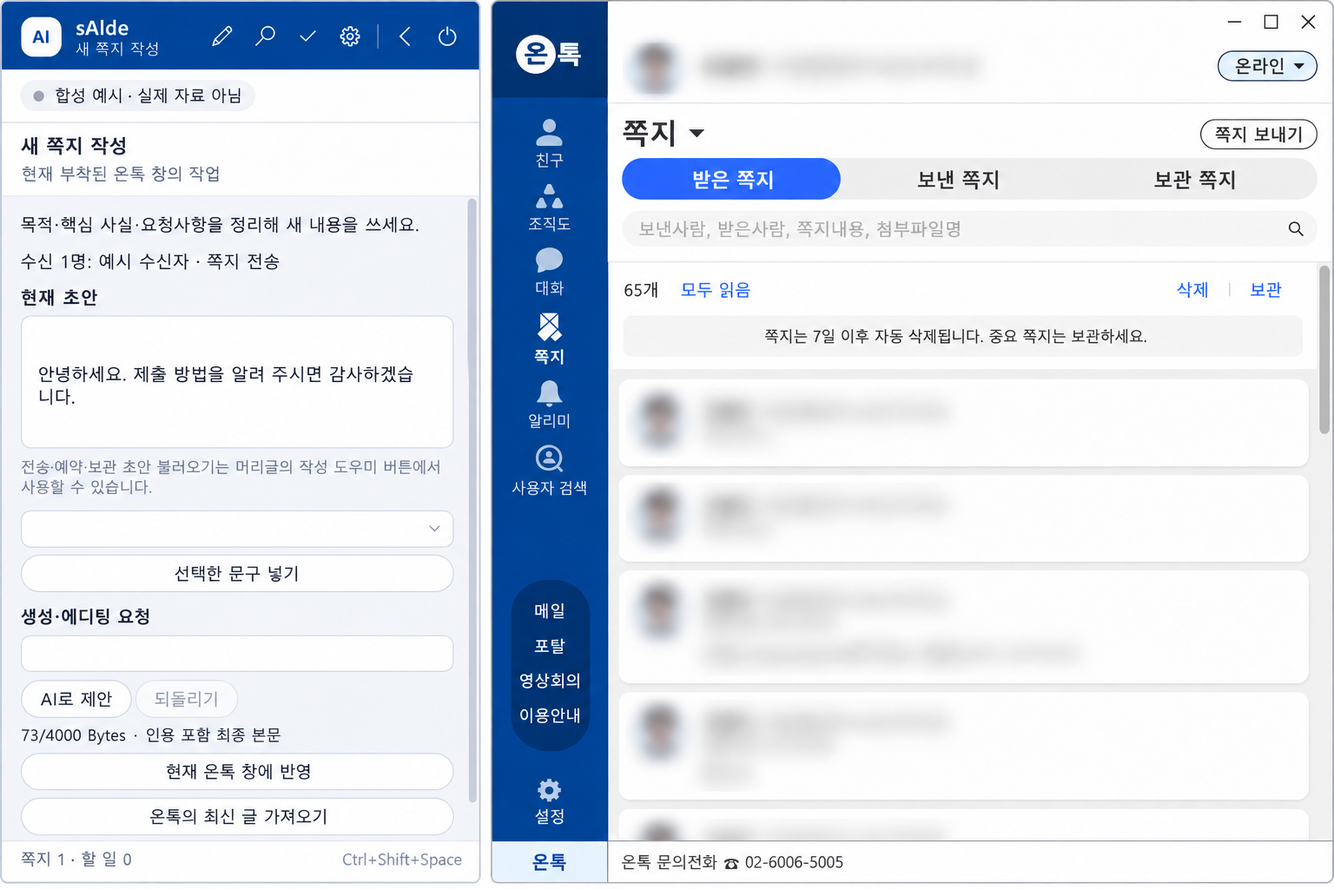
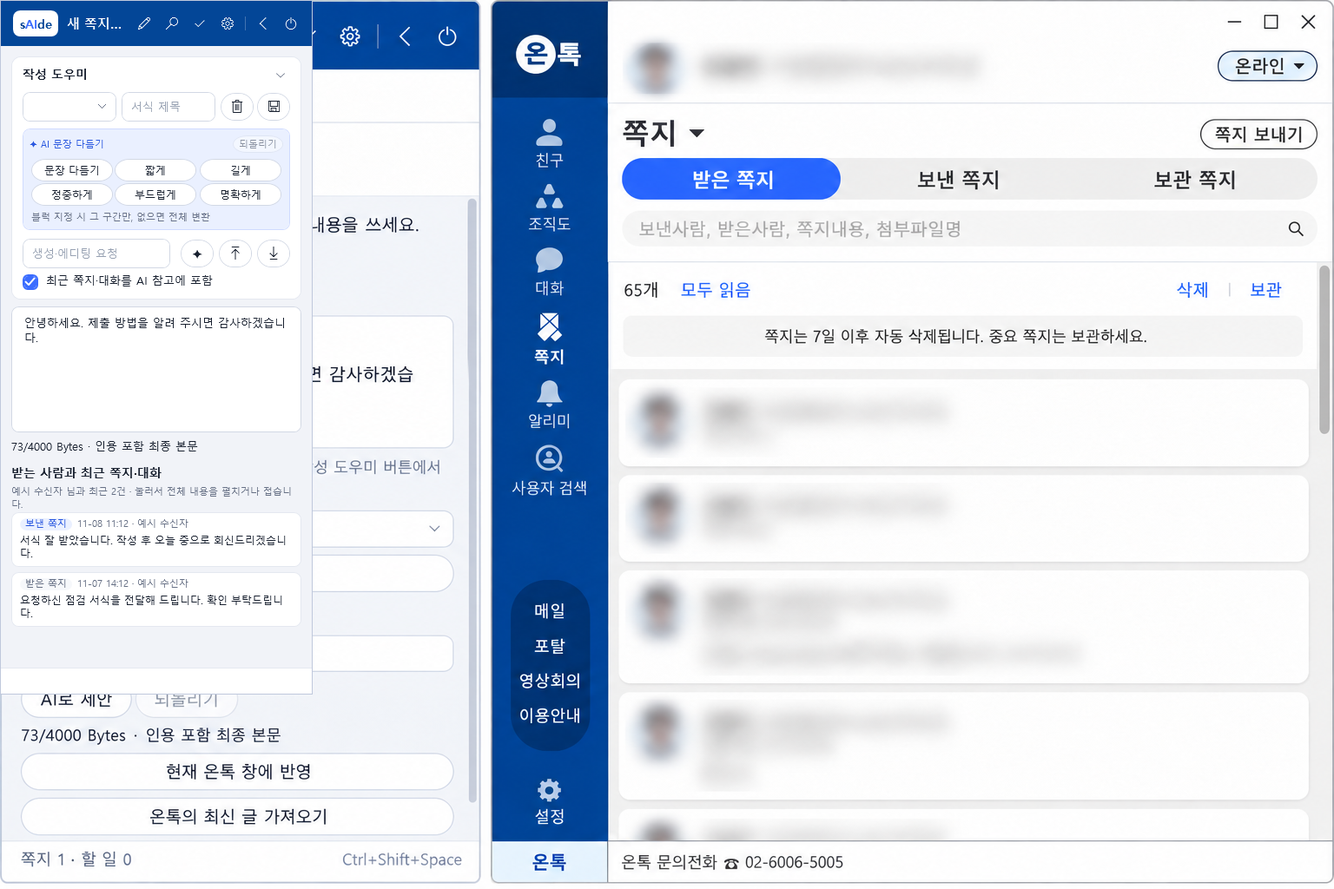
s

diff --git a/tools/OnTalk.ContextPreview/Program.cs b/tools/OnTalk.ContextPreview/Program.cs
@@ -35,6 +35,10 @@ internal static class Program
         if (Directory.Exists(profileDir)) Directory.Delete(profileDir, true);
         using var store = ProfileStore.Open(profileDir, "preview");
         store.SaveGroup("예시 업무 그룹", [new Recipient("예시 담당자", "주무관", ["예시기관 총무팀"]) ]);
+        store.SaveTemplate("업무 협조 요청", "안녕하세요. 아래 업무 관련하여 협조 요청드립니다.\n\n- 요청 사항: \n- 회신 기한: \n\n감사합니다.");
+        store.SaveReceived(new ReceivedNote("예시 수신자", "총무팀", "어제 오후 03:20", null, 1, "요청하신 점검 서식을 전달해 드립니다. 확인 부탁드립니다.", []), DateTimeOffset.Now.AddDays(-1));
+        var prevSent = store.BeginDispatch(["예시 수신자"], "서식 잘 받았습니다. 작성 후 오늘 중으로 회신드리겠습니다.", null, DateTimeOffset.Now.AddHours(-3));
+        store.FinishDispatch(prevSent, DispatchStatus.WindowClosed, "");
         var panel = new PanelWindow();
         Set(panel, "_store", store);
         var session = Guid.NewGuid(); var hwnd = new IntPtr(123);
@@ -189,6 +193,7 @@ internal static class Program
             new HotkeyRegistration(() => IntPtr.Zero, new AppSettings()));
         if (((TextBox)Get(manage, "HotkeyBox")).Text != "Ctrl+Shift+Space (사용 중이 아님)") throw new InvalidOperationException("관리 창 단축키 표시 오류");
         Render((FrameworkElement)manage.Content, Path.Combine(output, "manage-hotkey.png"), 600, 1000);
+        ((TextBox)Get(host.Note!, "_editor")).Text = "안녕하세요. 10월 정기 점검 일정을 안내드립니다.\n\n- 일시: 10월 22일(수) 14:00\n- 장소: 3층 회의실\n\n참석 여부를 회신해 주세요.";
         Render(hostTabs, Path.Combine(output, "note-host-note.png"), clientWidth, clientHeight);
         Render(hostTabs, Path.Combine(output, "note-host-note-min.png"), 648, 456);
         hostTabs.SelectedIndex = 1;

diff --git a/README.md b/README.md
@@ -1,4 +1,4 @@
-# onTalk.sAIde 사용자 매뉴얼
+# onTalk.sAIde 사용자 매뉴얼
 
 온톡에서 지금 하는 일에 맞춰 옆 패널이 바뀌는 Windows 업무 도우미입니다. Home(친구)에서는 친구·그룹별 업무 소통을 한눈에 보고, 조직도에서는 선택한 직원에게 쪽지를 보내며, 쪽지를 읽을 때는 내용과 할 일을 정리합니다. 쪽지 작성과 대화 답변에는 초안 편집과 로컬 AI 제안을 제공합니다.
 
@@ -100,10 +100,10 @@ ZIP의 **전체 압축을 풀고** 안의 `OnTalk.sAIde.exe`를 실행합니다.
 2. 보내지 않을 사람은 **제외(X 아이콘)** 단추로 제외합니다. 추가할 사람이 있거나 온톡이 선택 상태를 알려 주지 않으면 우측 상단 **직원 추가(+)** 단추를 눌러 읽은 직원 중에서 직접 검색하고 선택합니다.
 3. **쪽지** 단추를 누르면 `쪽지 보내기` 창이 열리고, 선택한 직원이 `쪽지`와 `개인별 쪽지` 두 탭에 똑같이 들어갑니다. 먼저 `쪽지` 탭에서 같은 내용을 보냅니다. ① 받는 사람을 확인(✕로 빼기)하고 ② 본문을 쓰거나 저장된 서식을 불러온 뒤 ③ 보낼 **첨부 파일**을 **파일 추가…**로 고르거나 끌어다 놓고(파일당 최대 20MB·최대 10개, exe 제외) ④ 필요하면 예약 시각과 **SMS 발송**을 고릅니다. 새 쪽지·답장·선택 직원 쪽지가 모두 같은 창을 씁니다. **자동 발송**은 빈 새 쪽지 창을 자동으로 열어 모든 대상을 받는 사람에 넣고, 첨부 파일은 온톡의 파일 선택창으로 직접 붙이며 파일마다 온톡 첨부 목록에 늘었는지 확인합니다. SMS는 온톡의 ‘SMS 발송’ 확인란을 선택하고, 본문·첨부·SMS·예약을 검증한 뒤 확인 창에서 승인하면 한 통으로 보냅니다. **온톡 쪽지창에 준비**는 채우기만 하고 전송은 온톡 창에서 직접 합니다. 한 사람이라도 이름·직급·소속으로 확정하지 못하면 일부에게만 보내지 않고 멈춥니다. 본문은 자동 저장되지 않으며, 창 아래 왼쪽 **임시저장**을 눌러야 저장되고 **임시저장 삭제**로 바로 지울 수 있습니다.
 
-![선택 직원에게 쪽지 합성 예시](docs/images/group-note.png)
+![선택 직원에게 쪽지 합성 예시](docs/images/note-host-note.png)
 4. 사람마다 내용이 다르면 같은 창의 **개인별 쪽지** 탭으로 옮깁니다(발송·준비가 진행되는 동안에는 탭을 바꿀 수 없습니다). **입력 양식 CSV 내보내기**로 받은 파일에 원하는 헤더(열)를 자유롭게 추가하고 사람별 데이터를 채운 뒤 **CSV · TSV · XLSX 데이터 가져오기**로 불러오면, `{이름}`, `{소속}`, `{직급}`과 함께 추가한 `{헤더명}` 변수를 서식에 그대로 적용해 개인별 본문을 생성·미리보기·수정합니다. 이름·소속·직급이 일치하지 않으면 가져오지 않으며, 개인별 발송은 한 건씩 수신자·본문·예약을 확인하며 진행합니다.
 
-![개인별 쪽지 작성과 미리보기 합성 예시](docs/images/personalized-notes.png)
+![개인별 쪽지 작성과 미리보기 합성 예시](docs/images/note-host-personalized.png)
 
 접힌 부서의 직원·읽히지 않은 직원은 대상에 없습니다. 동명이인은 이름·직급·소속을 함께 비교합니다. 자세한 순서는 [조직도 쪽지 안내](docs/organization-personalized-notes.md)를 참고하세요.
 
@@ -160,7 +160,7 @@ AI가 없으면 원문에서 할 일로 보이는 문장을 그대로 추린 후
 
 ![메인 화면과 새 쪽지 작성 지원 합성 예시](docs/images/note-writing.png)
 
-메인 화면과 **새 쪽지 작성창용 패널 합성 예시**입니다. 실제 사용에서는 해당 작성창 옆에 붙습니다.
+메인 화면과 **새 쪽지 작성창용 패널 합성 예시**입니다. 실제 사용에서는 온톡에서 연 해당 작성창 옆에 붙습니다. 메뉴를 옮겨도 작성 중인 초안은 유지됩니다.
 
 | 종류 | 준비할 내용 |
 |---|---|
@@ -169,12 +169,21 @@ AI가 없으면 원문에서 할 일로 보이는 문장을 그대로 추린 후
 | 전체답장 | 모두에게 필요한 응답과 실제 전체 수신자 확인 |
 | 전달 | 전달 이유·다음 행동·원문·첨부 포함 여부 |
 
-1. 온톡에서 작성창을 열고 패널의 작성 종류를 확인합니다.
-2. 직접 쓰거나 문구를 골라 **선택한 문구 넣기**를 누릅니다.
-3. 요청을 적고 **AI로 제안**을 누릅니다. 제안은 편집기를 바로 덮어쓰지 않습니다.
-4. 비교 후 **제안을 초안에 적용**하고 필요하면 **되돌리기**를 누릅니다.
-5. 인용 포함 여부·바이트 표시를 보고 **현재 온톡 창에 반영**합니다.
-6. 온톡의 글이 바뀌어 충돌하면 최신 본문을 확인합니다. **온톡의 최신 글 가져오기**로 다시 시작할 수 있습니다.
+1. 온톡에서 작성창을 열면 해당 작성창에 맞춤 부착된 패널이 표시됩니다. 작성창 세션·종류(새 쪽지, 답장, 전체답장, 전달)별로 초안을 분리 보관하며, 온톡 창이 열려 있는 동안 주기적으로 자동 저장됩니다.
+2. **저장된 서식 관리**: 상단 **작성 도우미**에서 저장된 서식을 선택해 즉시 불러올 수 있으며, 서식 제목을 적고 **서식 저장()** 단추를 누르면 현재 초안을 새 서식으로 저장합니다. 필요 없어진 서식은 **서식 삭제()**로 지웁니다.
+3. **✦ AI 문장 다듬기**:
+   - 6가지 원클릭 프리셋 단추를 제공합니다: **문장 다듬기**(맞춤법·자연스러운 표현), **짧게**(군더더기 축약), **길게**(배경·안내 보완), **정중하게**(공공기관 격식 경어체), **부드럽게**(완곡한 어조), **명확하게**(핵심 용건 정리).
+   - **블럭 구간 또는 전체 변환**: 본문에서 특정 문장이나 단락을 마우스/키보드로 블럭 지정하면 해당 구간만 다듬고, 선택이 없으면 전체 본문을 다듬습니다. 원문의 줄 바꿈과 빈 줄(문단 구분) 구조를 그대로 유지합니다.
+   - 변환 결과가 마음에 들지 않으면 즉시 **되돌리기** 단추를 눌러 직전 본문으로 복원할 수 있습니다.
+4. **생성·에디팅 요청 및 빠른 액션 단추**:
+   - 요청 입력칸에 구체적인 요청(예: *제출 기한 연장 문의*, *점검 일정 안내*)을 적고 **✦ (AI로 제안)** 단추를 누르면, AI가 요청에 맞는 본문을 만들어 초안 칸에 바로 넣습니다(되돌리기로 복원 가능).
+   - ** (현재 온톡 창에 반영)**: 작성한 초안을 온톡 쪽지창 본문으로 즉시 입력합니다(전송 단추는 누르지 않음).
+   - ** (온톡의 최신 글 가져오기)**: 온톡 쪽지창에 적힌 본문을 초안 칸으로 가져옵니다.
+5. **받는 사람과 최근 쪽지·대화 3건**:
+   - 쪽지의 수신자가 확정되면 해당 직원과 이 PC에 로컬 보관된 이전 쪽지(받은 쪽지, 보낸 쪽지) 및 Home에 연결된 대화 정리 내역 중 최신 3건을 카드로 표시합니다.
+   - 각 카드는 [받음]/[보냄]/[대화] 구분 배지, 일시, 상대 이름, 내용 미리보기를 담고 있으며, 카드를 클릭하면 본문 전체를 펼치거나 접을 수 있습니다.
+   - 보관된 최근 내역이 있으면 **"최근 쪽지·대화를 AI 참고에 포함"** 확인란이 나타나며, 체크 시 AI 제안 생성 시 이전 소통 맥락과 어조를 참고하여 작성합니다.
+6. 원문 인용 포함 여부(`원문 인용 포함 (N Bytes)`)와 실시간 바이트 계산(`N / 4,000 Bytes`)을 확인한 뒤 ** (온톡 창에 반영)** 단추로 온톡 본문에 넣고, 최종 내용을 확인한 후 온톡에서 직접 전송합니다.
 
 **반영은 전송이 아닙니다.** 온톡 본문·바이트를 다시 읽어 확인합니다. 미완성 `{확인할 내용}`은 먼저 고치세요. 종류·창 세션별로 초안을 나누고 바뀐 작업에는 오래된 AI 제안을 적용하지 않습니다.
 
@@ -254,7 +263,7 @@ AI 요청은 `127.0.0.1:11434`로 제한하며 클라우드 모델로 원문을 
 
 ## 개발과 문서 안내
 
-최신 결과는 **테스트 330개 통과·합성 WPF 화면 77개·Release 오류·경고 0개**입니다. Home은 그룹·친구 필터, 대화 정리 연결, 360px 폭·낮은 높이·125/150% 렌더링으로 검증했습니다. 기존 실제 감시→파서 경로에서 친구·조직도·대화 목록·일대일/그룹 대화·로그인 전환·쪽지 메뉴를 확인했습니다. 새 Home과 조직도 개인별 발송의 실제 사용 수용 시험은 별도로 남아 있습니다.
+최신 결과는 **테스트 403개 통과·합성 WPF 화면 88개·Release 오류·경고 0개**입니다. Home은 그룹·친구 필터, 대화 정리 연결, 360px 폭·낮은 높이·125/150% 렌더링으로 검증했습니다. 기존 실제 감시→파서 경로에서 친구·조직도·대화 목록·일대일/그룹 대화·로그인 전환·쪽지 메뉴를 확인했습니다. 새 Home과 조직도 개인별 발송의 실제 사용 수용 시험은 별도로 남아 있습니다.
 
 ```powershell
 dotnet test tests/OnTalk.Sidecar.Tests -c Release

diff --git a/docs/manual-images.md b/docs/manual-images.md
@@ -1,10 +1,10 @@
 # 사용자 매뉴얼 이미지 제작 기록
 
-갱신: 2026-10-17. [사용자 매뉴얼](../README.md)의 이미지 출처와 개인정보 처리 기준이다.
+갱신: 2026-10-28. [사용자 매뉴얼](../README.md)의 이미지 출처와 개인정보 처리 기준이다.
 
 ## 새 Home 화면
 
-`images/home-dashboard.png`는 `OnTalk.ContextPreview`가 가상 친구·쪽지·대화로 렌더링한 실제 WPF 패널이다. 온톡 창·사용자 이력·첨부의 직원 정보를 사용하지 않았으며 상태 표시에도 가상 자료임을 명시했다. 상단 '체크한 친구와 함께(단체 대화/단체 쪽지)' 빠른 실행 및 3개 카드(최근 쪽지·최근 대화·최근 업무) 개편 화면을 반영했다. 이전 `friends-main.png`는 연락 준비 중심의 과거 Home 화면 기록으로 유지한다.
+`images/home-dashboard.png`는 `OnTalk.ContextPreview`가 가상 친구·쪽지·대화로 렌더링한 실제 WPF 패널이다. 온톡 창·사용자 이력·첨부의 직원 정보를 사용하지 않았으며 상태 표시에도 가상 자료임을 명시했다. 상단 '체크한 친구와 함께(단체 대화/단체 쪽지)' 빠른 실행 및 3개 카드(최근 쪽지·최근 대화·최근 업무)와 온톡 대화 목록에서 이름이 일치한 대화방(스키마 11 `HomeConversations`) 개편 화면을 반영했다. 이전 `friends-main.png`는 연락 준비 중심의 과거 Home 화면 기록으로 유지한다.
 
 ## 실제 메인 메뉴 화면
 
@@ -31,13 +31,16 @@
 | 파일 | 가상 자료 화면과 주의점 |
 |---|---|
 | images/note-reading.png | 받은 쪽지 읽기 지원. 실제는 별도 상세창에 부착 |
-| images/note-writing.png | 새 쪽지 작성 지원. 실제는 별도 작성창에 부착 |
+| images/note-writing.png | 새 쪽지 작성 지원. 서식 관리, 6개 프리셋 AI 문장 다듬기(블럭/전체 변환·되돌리기), 요청문 제안, 온톡 반영()/가져오기(), 수신자와 최근 오간 쪽지(수신/발신) 및 대화 3건 카드(펼침/접기) 및 AI 맥락 반영 확인란이 포함된 개편 화면 |
 | images/chat-support.png | 대화 원문 선택·답변 복사. 실제는 별도 대화창에 부착 |
-| images/group-note.png | 조직도 선택 직원에게 같은 쪽지 (받는 사람 칩·서식·본문·예약·자동 발송/준비) |
-| images/prepared-contact-compose.png | (이전) 조직도 선택 직원 대상 쪽지 작성 도우미. 현재는 `group-note.png` 창으로 바뀜 |
-| images/personalized-notes.png | 개인별 쪽지 작성과 미리보기 창 (서식·사용자정의 헤더/표·치환 미리보기·예약) |
-| images/personalized-notes-full.png | 개인별 쪽지 전체 작업 카드 (저장 작업·서식·데이터·본문 확인·발송 방식·연속 발송) |
+| images/note-host-note.png | 통합 쪽지 창의 ‘쪽지’ 탭 (조직도 선택 직원에게 같은 내용 발송, 받는 사람 칩·서식·첨부·예약·SMS·임시저장) |
+| images/note-host-personalized.png | 통합 쪽지 창의 ‘개인별 쪽지’ 탭 (서식·CSV/XLSX 대상 데이터·치환 미리보기·자동 연속 발송) |
+| images/group-note.png | 조직도 선택 직원에게 같은 쪽지 (GroupNotePane 화면, note-host-note와 동일한 촘촘한 배치 기준) |
+| images/prepared-contact-compose.png | (이전) 조직도 선택 직원 대상 쪽지 작성 도우미. 현재는 통합 쪽지 창(`note-host-note.png`)으로 바뀜 |
+| images/personalized-notes.png | 개인별 쪽지 작성과 미리보기 창 (600×600 Density 기준 화면) |
+| images/personalized-notes-full.png | 개인별 쪽지 전체 작업 카드 (600×1500 전체 구역 펼침 화면) |
 | images/personalized-saved-tags.png | 개인별 쪽지 저장한 작업의 상태 태그 (임시 저장·발송 완료·일부 발송) |
+| images/manage-hotkey.png | 관리(설정) 창의 단축키 설정 화면 (기본 Ctrl+Shift+Space, 실시간 키 조합 확인 및 충돌 방지) |
 
 실제 메인 화면과 합성 상세 패널을 함께 배치한 그림은 한 시점의 실제 부착 상태를 뜻하지 않는다. 미검증 대화 입력 반영 화면을 현재 제품 사용법의 예시로 넣지 않는다.
 

diff --git a/docs/compatibility-matrix.md b/docs/compatibility-matrix.md
@@ -1,4 +1,4 @@
-# 호환성과 기능별 지원 상태
+# 호환성과 기능별 지원 상태
 
 갱신: 2026-10-17. 기존 실제 확인은 온톡 5.4.3(Electron 7.3.3/Chromium 78), Windows 11 Pro, 배율 100% 기준이며 새 Home과 조직도 개인화 작업은 합성 WPF·자동 시험으로 검증했다. 현재 배포 버전은 0.3.3이다. [사용법](../README.md), [실제 확인 기록](contextual-sidecar-phase4.md), [조직도 쪽지 안내](organization-personalized-notes.md)를 함께 읽는다.
 
@@ -22,7 +22,7 @@
 | 그룹·자료 연결 | 제공 | 수신자 그룹·명시적 사람/쪽지 연결 자동 시험. 온톡 나의 그룹 변경 없음 |
 | 대화 원문·정리·답변·업무 | 제공 | 실제 일대일/그룹 표시 텍스트 파서 확인, 네 탭 자동/합성 시험. 전체 이력 보장 없음 |
 | 대화 입력 가져오기·직접 반영 | 제품 비노출 | 구현 및 합성 시험만. 실제 정확한 UIA 입력 요소 확인 실패, 초안 복사 제공 |
-| 쪽지 네 작성 종류 | 제공 | 패널 편집·인용·제안·충돌 자동/합성 시험. 최신 네 종류 전체 실화면 시험 남음 |
+| 쪽지 네 작성 종류 | 제공 | 패널 편집·서식 관리·AI 6종 프리셋 문장 다듬기(블럭/전체 변환 및 줄바꿈 보존)·최근 3건 소통 카드 및 AI 맥락 반영·인용·제안·충돌 자동/합성 시험. 최신 네 종류 전체 실화면 시험 남음 |
 | 쪽지 본문 반영 | 제공 | 과거 접근성 값 설정 후 본문·바이트 확인. 대화 입력과 다른 경로 |
 | 쪽지 수신자 | 제공 | 과거 검색·소속 확인·추가/제거 확인. 온톡 직접 추가는 이름만 확인 |
 | 즉시 전송 | 별도 확인 후 제공 | 과거 사용자 실행 1건. 작성창 닫힘까지 판정, 자동 재전송 없음 |
@@ -47,4 +47,4 @@
 
 ## 검증·배포 기준
 
-330개 테스트, 합성 WPF 77개, Release 오류·경고 0개. 4차 최초 276개, 후속 쪽지 수정 286개, Home 재설계 292개, 조직도 개인별 쪽지 및 Home 3카드 개편 330개 결과를 구분한다. README의 Home 이미지는 가상 자료의 실제 WPF 렌더이며 기존 온톡 이미지는 개인정보를 흐림 처리한 안내용이다. 실제 제품 수용 시험을 대신하지 않는다. 현재 소스의 배포 스크립트는 문서·이미지를 함께 복사하지만 기존 ZIP을 재생성하지 않았다.
+403개 테스트, 합성 WPF 88개, Release 오류·경고 0개. 4차 최초 276개, 후속 쪽지 수정 286개, Home 재설계 292개, 조직도 개인별 쪽지 및 Home 3카드 개편 330개, 통합 쪽지 창(NoteHostWindow)·단축키 설정 및 쪽지 작성 도우미 개편 403개 결과를 구분한다. README의 Home 이미지는 가상 자료의 실제 WPF 렌더이며 기존 온톡 이미지는 개인정보를 흐림 처리한 안내용이다. 실제 제품 수용 시험을 대신하지 않는다. 현재 소스의 배포 스크립트는 문서·이미지를 함께 복사하지만 기존 ZIP을 재생성하지 않았다.

diff --git a/docs/organization-personalized-notes.md b/docs/organization-personalized-notes.md
@@ -14,7 +14,7 @@
    - 같은 쪽지를 모두가 받으므로, 한 사람이라도 확정하지 못하면(일치 없음·동명이인) 일부에게만 보내지 않고 멈춘다. 그 대상을 빼거나 온톡 창에서 직접 고른다.
    - 본문은 자동으로 저장하지 않는다. 창 아래 왼쪽 `임시저장` 단추를 누를 때만 계정 저장소에 저장되며, 저장해 둔 본문은 다시 열면 이어진다. 옆의 `임시저장 삭제` 단추로 저장해 둔 쪽지를 바로 지울 수 있고(화면의 본문은 그대로 남는다), 발송을 마치면 임시저장도 지운다. 저장 시각은 단추 옆에 표시된다.
 
-![선택 직원에게 쪽지](images/group-note.png)
+![선택 직원에게 쪽지](images/note-host-note.png)
 
 4. 사람마다 다른 내용이면 같은 창의 `개인별 쪽지` 탭으로 옮긴다. 작성 도우미를 거치지 않고, 여러 명 각 개인에 대한 온톡 쪽지 창을 수동으로 열거나 `반영할 온톡 창`에서 일일이 지정할 필요 없이 자동 연속 발송할 수 있다.
 
@@ -51,8 +51,8 @@
 
 ## 저장소
 
-스키마 10에 `personalized_work`를 추가했다. 기존 마이그레이션 절차가 이전 DB를 백업한 후 업그레이드한다. 기존 암호화 백업에 새 테이블도 포함된다. 구버전 실행 파일은 스키마 10을 열 수 없다.
+스키마 10에 `personalized_work`를 추가했고, 최신 버전은 스키마 11(Home 대화방 보관 포함)입니다. 기존 마이그레이션 절차가 이전 DB를 백업한 후 업그레이드합니다. 기존 암호화 백업에 새 테이블도 포함됩니다. 구버전 실행 파일은 최신 스키마를 열 수 없습니다.
 
 ## 검증
 
-개인별 치환·사실값 보존·미완성 변수·바이트 한도·조직명 대조·계정 격리·작업 복구·오래된 저장의 발송 기록 보존·자동 연속 발송(순차 발송, 동명이인 보류 후 계속 진행, 예약 시각 적용, 창 미닫힘 시 중단 및 중복 발송 차단)을 자동 테스트한다. 합성 WPF 검증에 개인별 본문 생성·개별 수정 유지·자동 연속 발송·일반/작은 화면 렌더링을 포함했다.
+개인별 치환·사실값 보존·미완성 변수·바이트 한도·조직명 대조·계정 격리·작업 복구·오래된 저장의 발송 기록 보존·자동 연속 발송(순차 발송, 동명이인 보류 후 계속 진행, 예약 시각 적용, 창 미닫힘 시 중단 및 중복 발송 차단)을 자동 테스트합니다. 전체 단위 테스트 403개 통과. 합성 WPF 검증에 통합 쪽지 창(`NoteHostWindow`), 개인별 본문 생성·개별 수정 유지·자동 연속 발송·Density 기반 화면 렌더링을 포함했습니다.

diff --git a/docs/implementation-status.md b/docs/implementation-status.md
@@ -1,4 +1,4 @@
-# 구현 현황 · 문맥별 사이드카
+# 구현 현황 · 문맥별 사이드카
 
 갱신: 2026-10-17, Asia/Seoul. 0.3.3 개발 소스와 Home·조직도 쪽지 기준이다. 사용 순서는 [사용자 매뉴얼](../README.md)과 [조직도 쪽지 안내](organization-personalized-notes.md)를 참고한다. 아래 0.1 기록은 과거 자료이며 현재 구현 상태와 구분한다.
 
@@ -20,8 +20,8 @@
 
 ## 최신 검증
 
-- 단위 테스트 330개 통과. 개인별 치환·파일 가져오기·수신자 대조·저장 및 기존 Home/쪽지 시험을 포함한다.
-- 합성 WPF 77개 화면: 개인화 작업의 일반/작은 화면을 포함한다. 360px 폭·480px 높이·125/150% 렌더, 그룹/친구 필터와 대화 Home 연결 검사. 실제 배율 도킹 시험과 다르다.
+- 단위 테스트 403개 통과. 통합 쪽지 창(NoteHostWindow)·단축키 커스텀 설정·쪽지 작성 도우미 개편(서식 관리, 6종 AI 프리셋 다듬기, 최근 소통 3건 카드)·개인별 치환·파일 가져오기·수신자 대조·저장 및 기존 Home/대화방 매칭/쪽지 시험을 포함한다.
+- 합성 WPF 88개 화면: 개인화 작업의 일반/작은 화면, 통합 쪽지 창(NoteHostWindow) 탭 화면, 단축키 관리 화면, 작성 도우미 개편 화면을 포함한다. 360px 폭·480px 높이·125/150% 렌더, 그룹/친구 필터와 대화 Home 연결 검사. 실제 배율 도킹 시험과 다르다.
 - Release 솔루션 빌드 오류·경고 0개.
 - 실제 제품 NoteWatcher→MSAA→파서: 친구, 조직도, 대화 목록, 일대일/그룹 대화, 로그인 전환, 쪽지 메뉴 확인. 당시 관찰 수는 전체/고유 개수 보장이 아니다.
 - 쪽지 메뉴는 /notes 우선, 경로 없는 화면은 받은·보낸·보관 세 탭을 함께 확인한다. 목록 로딩 중 감지와 메뉴 미확인 수동 대안을 제공한다.

diff --git a/docs/concept-and-plan.md b/docs/concept-and-plan.md
@@ -1,8 +1,8 @@
-# onTalk.sAIde 컨셉과 구현 계획
+# onTalk.sAIde 컨셉과 구현 계획
 
-## 최신 반영 사항 · 2026-10-17
+## 최신 반영 사항 · 2026-10-28
 
-현재 컨셉은 쪽지뿐 아니라 현재 창·메뉴·작업에 맞춰 지원하는 사이드카다. 친구(Home)는 [친구·그룹별 업무 소통 대시보드](home-dashboard.md), 조직도는 [선택 직원 대상 일반/개인별 쪽지 발송](organization-personalized-notes.md), 대화는 선택 원문 정리·답변·업무, 쪽지는 읽기/작성 분리로 제공한다. 쪽지 메뉴의 실제 /notes 경로와 받은·보낸·보관 쪽지 탭 감지를 보완했다. 최신 개발 소스는 저장소 스키마 11이며 최신 자동 테스트는 330개 통과, 합성 WPF 검사는 77개 화면, Release 빌드는 오류·경고 0개다.
+현재 컨셉은 쪽지뿐 아니라 현재 창·메뉴·작업에 맞춰 지원하는 사이드카다. 친구(Home)는 [친구·그룹별 업무 소통 대시보드](home-dashboard.md), 조직도는 [선택 직원 대상 일반/개인별 쪽지 발송](organization-personalized-notes.md), 대화는 선택 원문 정리·답변·업무, 쪽지는 읽기/작성 분리로 제공한다. 쪽지 창은 통합 탭(`NoteHostWindow`)으로 일원화되었으며, 작성 도우미는 서식 관리, 6종 AI 프리셋 다듬기, 최근 쪽지·대화 3건 카드 조회를 갖추었다. 최신 개발 소스는 저장소 스키마 11이며 최신 자동 테스트는 403개 통과, 합성 WPF 검사는 88개 화면, Release 빌드는 오류·경고 0개다.
 
 현재 사용법은 [사용자 매뉴얼](../README.md), 기능별 확인 수준은 [구현 현황](implementation-status.md)과 [호환성 표](compatibility-matrix.md)를 기준으로 읽는다. 대화 입력 직접 반영은 실제 미검증으로 제품에 노출하지 않고 초안 복사를 제공한다.
 

diff --git a/docs/contextual-sidecar-design.md b/docs/contextual-sidecar-design.md
@@ -1,8 +1,8 @@
-# 온톡 메뉴·작업별 사이드카 분석 및 설계
+# 온톡 메뉴·작업별 사이드카 분석 및 설계
 
-## 조직도 쪽지 및 Home 개편 · 2026-10-17
+## 쪽지 작성 도우미 및 통합 탭 개편 · 2026-10-28
 
-친구(Home)는 3개 카드(최근 쪽지·최근 대화·최근 업무) 및 빠른 단체 액션으로 개편했고([Home 재설계](home-dashboard.md)), 조직도는 이전 담당자 검색·AI 검색어를 제거하고 온톡 선택 직원 목록 기반의 [일반 쪽지 및 개인별 쪽지(CSV/XLSX 서식 치환·자동 연속 발송)](organization-personalized-notes.md)로 개편했다. 최신 개발 소스는 저장소 스키마 11이며 최신 자동 테스트는 330개 통과, 합성 WPF 검사는 77개 화면, Release 빌드는 오류·경고 0개다.
+친구(Home)는 3개 카드(최근 쪽지·최근 대화·최근 업무) 및 대화방 매칭(`HomeConversations`)으로 개편했고([Home 재설계](home-dashboard.md)), 조직도는 온톡 선택 직원 목록 기반의 [통합 쪽지 창(일반 쪽지 및 개인별 쪽지)](organization-personalized-notes.md)으로 통합했다. 쪽지 작성 도우미는 서식 관리, 6종 AI 프리셋 다듬기, 최근 소통 3건 조회를 갖추었다. 최신 개발 소스는 저장소 스키마 11이며 최신 자동 테스트는 403개 통과, 합성 WPF 검사는 88개 화면, Release 빌드는 오류·경고 0개다.
 
 현재 사용법은 [사용자 매뉴얼](../README.md), 기능별 확인 수준은 [구현 현황](implementation-status.md)과 [호환성 표](compatibility-matrix.md)를 기준으로 읽는다. 대화 입력 직접 반영은 실제 미검증으로 제품에 노출하지 않고 초안 복사를 제공한다.
 

diff --git a/docs/contextual-sidecar-phase4.md b/docs/contextual-sidecar-phase4.md
@@ -1,8 +1,8 @@
-# 문맥별 사이드카 4차 구현·검증 기록
+# 문맥별 사이드카 4차 구현·검증 기록
 
-## 최신 반영 사항 · 2026-10-17
+## 최신 반영 사항 · 2026-10-28
 
-0.3.3 버전에서 Home 재설계(3개 카드 대시보드)와 조직도 선택 직원 대상 쪽지/개인별 쪽지 발송(CSV/XLSX 서식 치환·자동 연속 발송)이 추가되었다. 자세한 내용은 [Home 재설계](home-dashboard.md)와 [조직도 쪽지 안내](organization-personalized-notes.md)를 참고한다. 최신 개발 소스는 저장소 스키마 11이며 단위 테스트 330개 통과, 합성 WPF 검사는 77개 화면, Release 오류·경고 0개다.
+0.3.3 버전에서 Home 재설계(3개 카드 대시보드 및 대화방 매칭), 조직도 통합 쪽지 창(`NoteHostWindow`), 쪽지 작성 도우미 개편(서식 관리, 6종 AI 프리셋 다듬기, 최근 소통 카드), 단축키 커스텀 설정이 추가되었다. 자세한 내용은 [Home 재설계](home-dashboard.md)와 [조직도 쪽지 안내](organization-personalized-notes.md)를 참고한다. 최신 개발 소스는 저장소 스키마 11이며 단위 테스트 403개 통과, 합성 WPF 검사는 88개 화면, Release 오류·경고 0개다.
 
 ## 이전 4차 결과 · 2026-10-04
 
